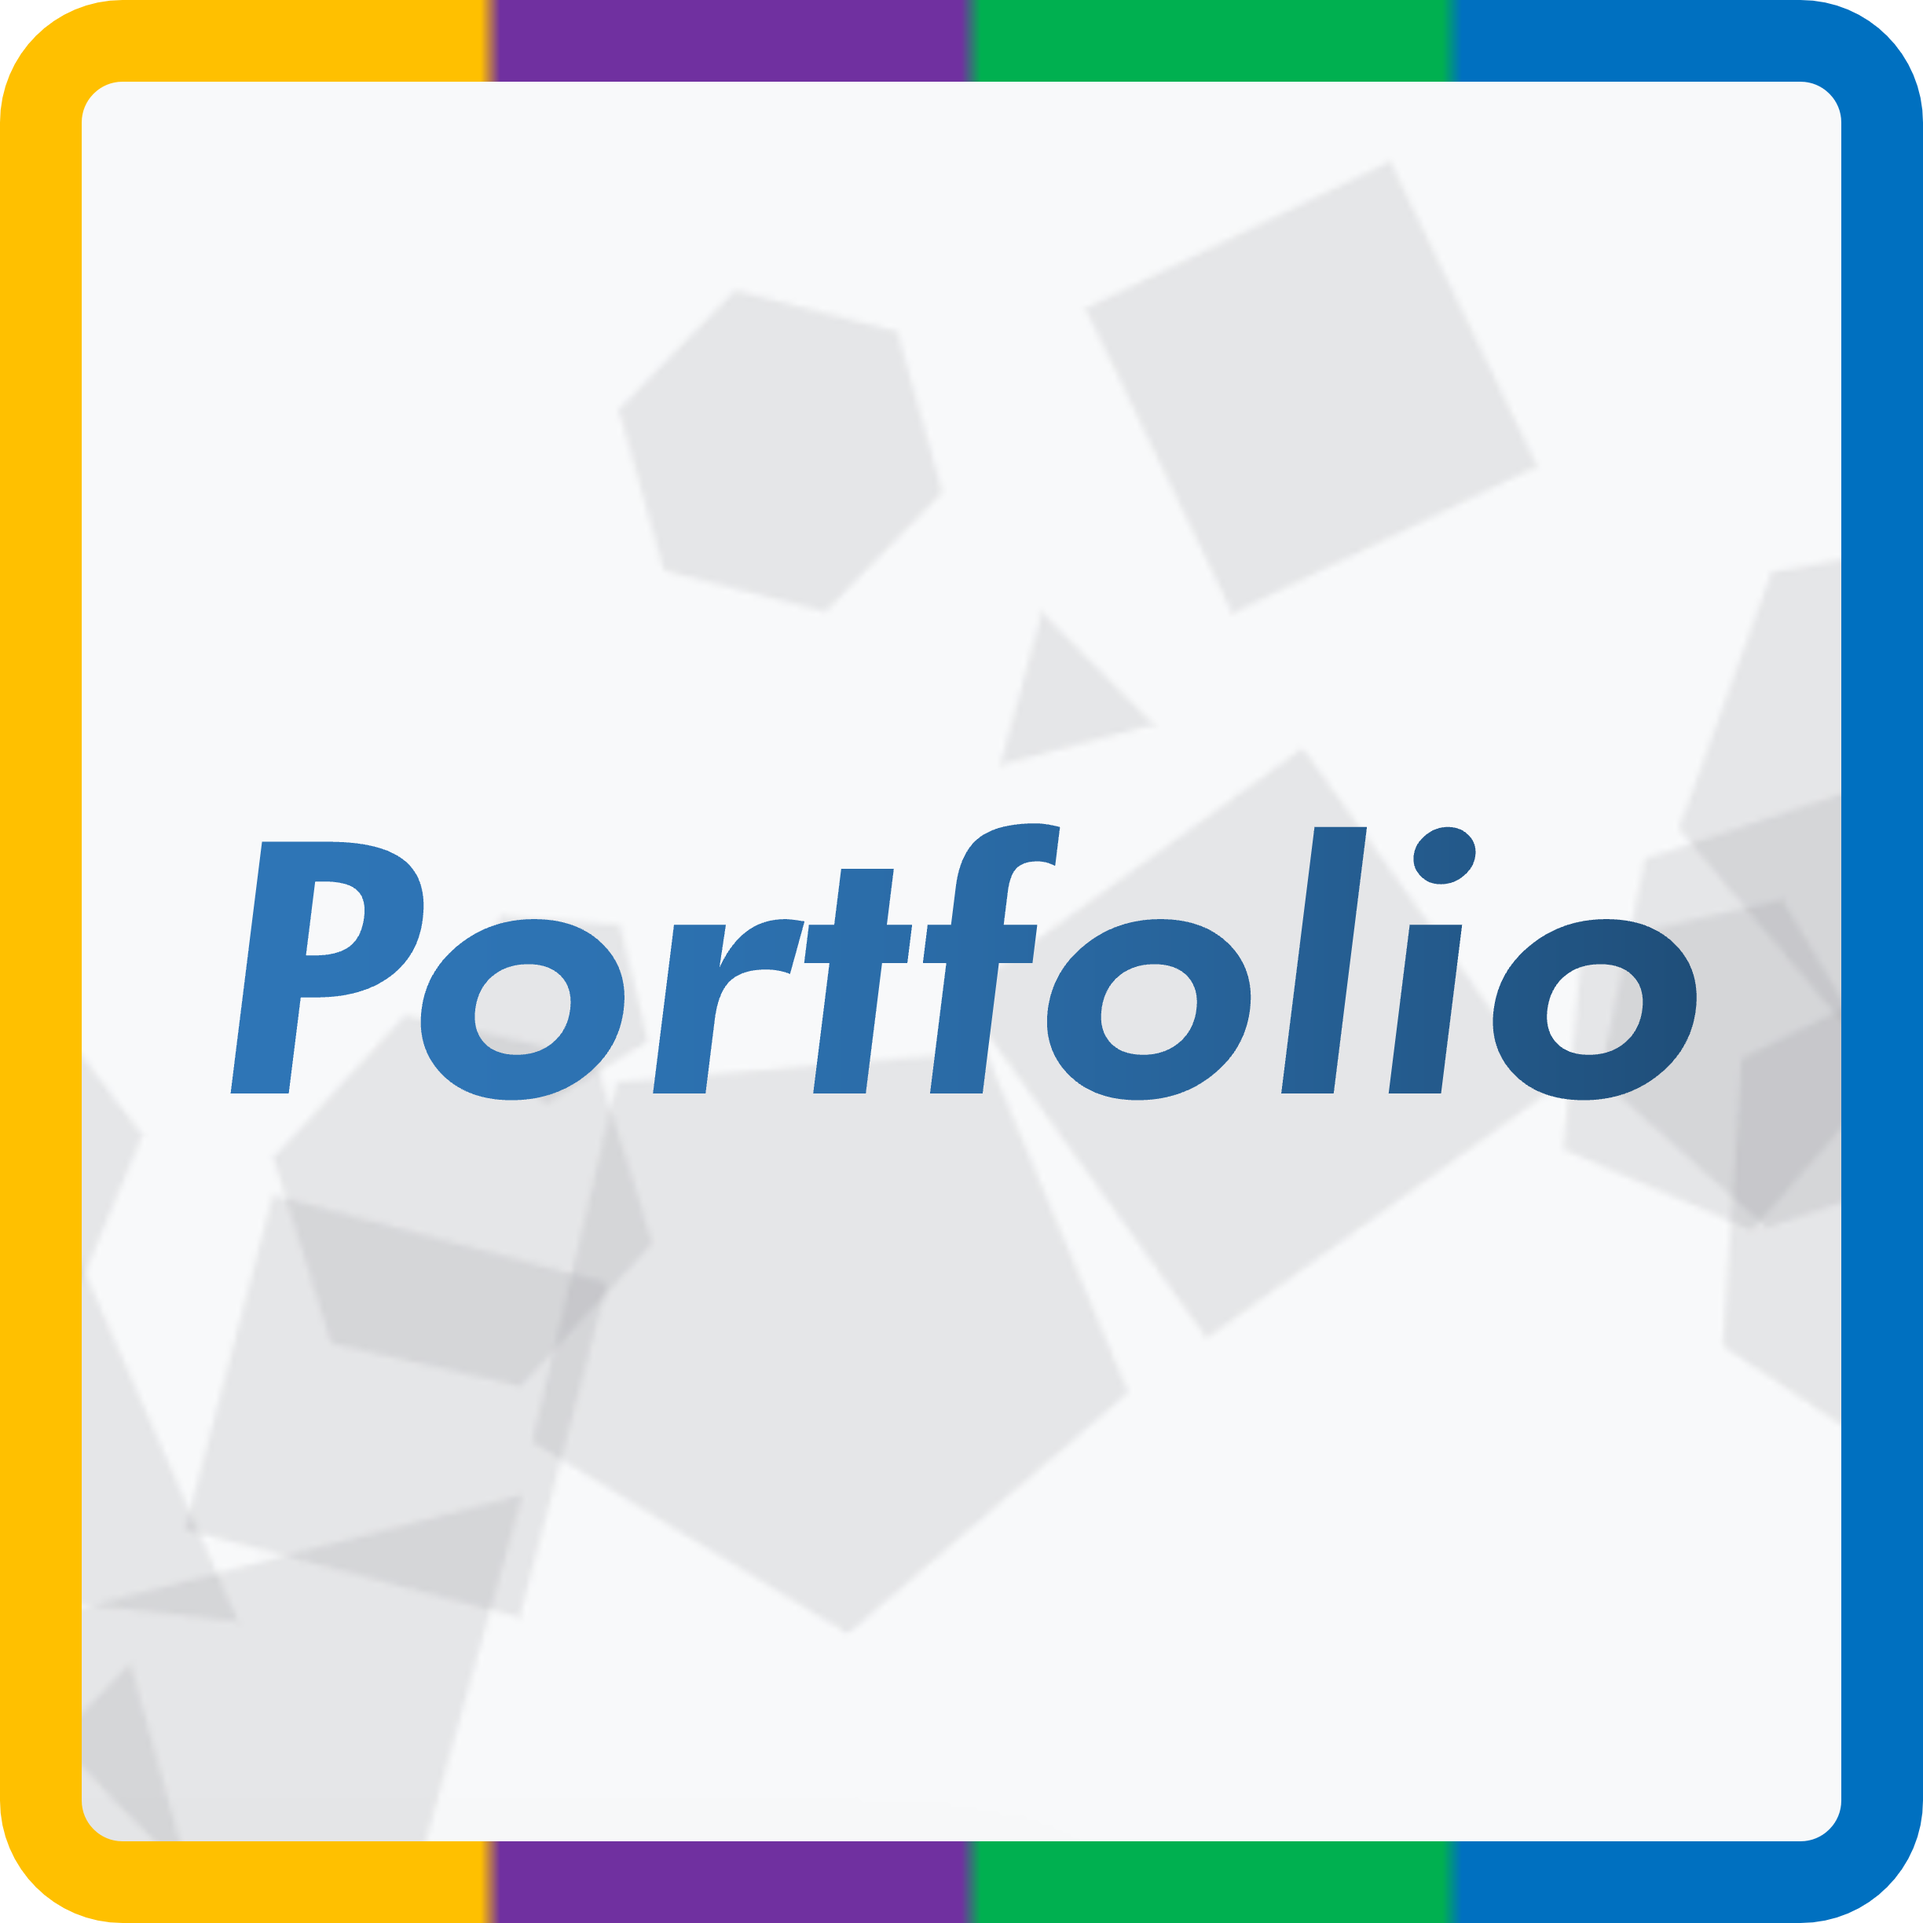
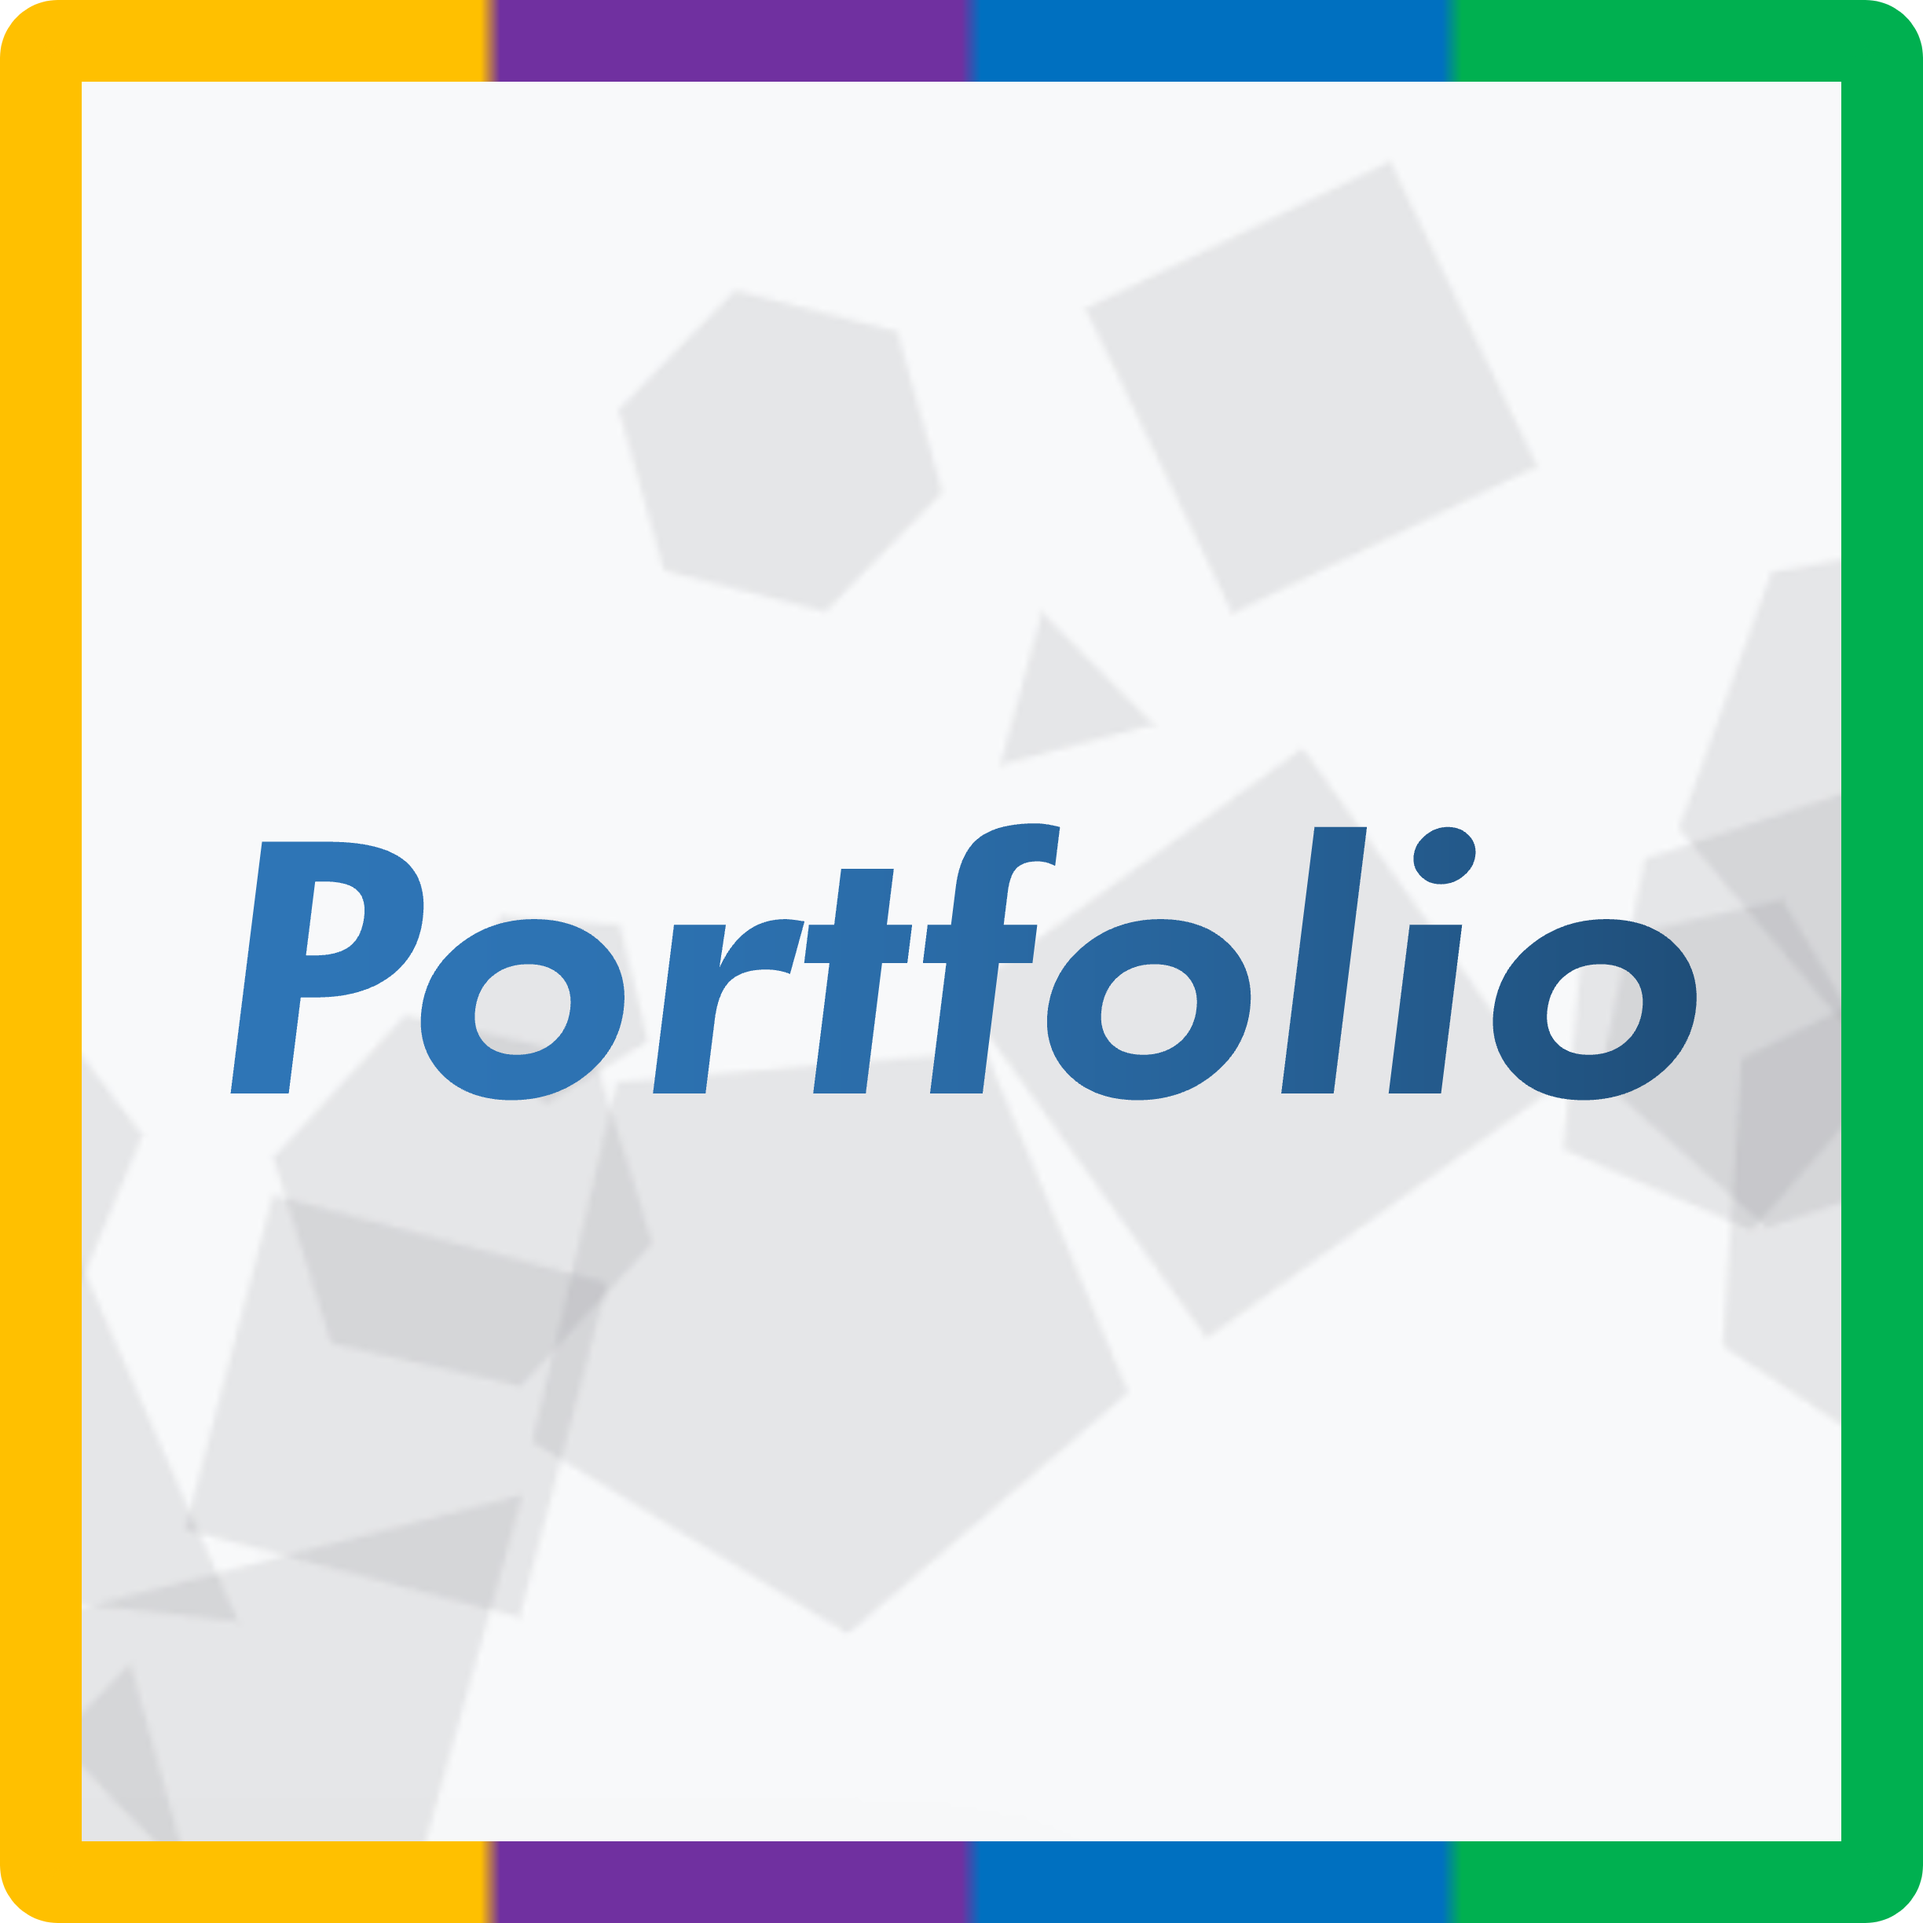
謎解き進捗のリセットボタンと確認モーダルを追加

diff --git a/script.js b/script.js
@@ -342,7 +342,12 @@ async function handleCorrectSequence(word) {
         secretWork.style.visibility = 'hidden';
         secretWork.style.position = 'absolute';
         secretWork.style.display = 'flex';
-        worksSection.appendChild(secretWork);
+        const resetContainer = document.getElementById('portfolio-reset-container');
+        if (resetContainer) {
+            worksSection.insertBefore(secretWork, resetContainer);
+        } else {
+            worksSection.appendChild(secretWork);
+        }
         const targetHeight = secretWork.offsetHeight;
         
         // アニメーションの初期状態にリセット
@@ -387,6 +392,14 @@ async function handleCorrectSequence(word) {
         
         actionArea.classList.remove('animating');
         secretWork.classList.remove('elevated-anim');
+        
+        // リセットボタンを表示
+        if (resetContainer) {
+            resetContainer.style.display = 'block';
+            resetContainer.style.opacity = '0';
+            resetContainer.style.transition = 'opacity 0.5s ease';
+            setTimeout(() => { resetContainer.style.opacity = '1'; }, 50);
+        }
         await delay(300);
         
     } else {
@@ -573,8 +586,14 @@ function restorePuzzleUIState() {
         </div>
         ${actionHTML}
     `;
-    
-    worksSection.appendChild(secretWork);
+    const resetContainer = document.getElementById('portfolio-reset-container');
+    if (resetContainer) {
+        worksSection.insertBefore(secretWork, resetContainer);
+        resetContainer.style.display = 'block';
+        resetContainer.style.opacity = '1';
+    } else {
+        worksSection.appendChild(secretWork);
+    }
 
     if (count === 3) {
         secretWork.addEventListener('click', (e) => {
@@ -593,6 +612,54 @@ function restorePuzzleUIState() {
             submitB.disabled = true;
         }
     }
+}
+
+    });
+}
+
+// リセット機能の設定
+const resetBtn = document.getElementById('portfolio-reset-btn');
+const resetModal = document.getElementById('reset-modal');
+const resetConfirm = document.getElementById('reset-confirm');
+const resetCancel = document.getElementById('reset-cancel');
+
+if (resetBtn) {
+    resetBtn.addEventListener('click', () => {
+        resetModal.classList.add('visible');
+    });
+}
+if (resetCancel) {
+    resetCancel.addEventListener('click', () => {
+        resetModal.classList.remove('visible');
+    });
+}
+if (resetConfirm) {
+    resetConfirm.addEventListener('click', () => {
+        localStorage.removeItem('portfolio_puzzle_progress');
+        solvedWords.clear();
+        
+        resetModal.classList.remove('visible');
+        
+        const secretWork = document.getElementById('portfolio-secret-work');
+        if (secretWork) secretWork.remove();
+        
+        const resetContainer = document.getElementById('portfolio-reset-container');
+        if (resetContainer) {
+            resetContainer.style.display = 'none';
+            resetContainer.style.opacity = '0';
+        }
+        
+        const inputF = document.getElementById('puzzle-input');
+        const submitB = document.getElementById('puzzle-submit');
+        if (inputF) {
+            inputF.disabled = false;
+            inputF.value = '';
+            inputF.parentElement.classList.remove('solved');
+        }
+        if (submitB) {
+            submitB.disabled = false;
+        }
+    });
 }
 
 // 初期化実行

diff --git a/style.css b/style.css
@@ -694,3 +694,88 @@ a.work-card.progress-locked:hover .work-card-action {
 .work-card.placeholder-mode > * {
     pointer-events: none;
 }
+
+/* リセットボタン関連 */
+#portfolio-reset-container {
+    text-align: right;
+    margin-top: -10px;
+}
+#portfolio-reset-btn {
+    background: #e74c3c;
+    color: white;
+    border: none;
+    padding: 6px 16px;
+    border-radius: 6px;
+    font-size: 0.85em;
+    cursor: pointer;
+    font-weight: 600;
+    box-shadow: 0 4px 12px rgba(231,76,60,0.3);
+    transition: transform 0.2s ease, box-shadow 0.2s ease, background 0.2s;
+}
+#portfolio-reset-btn:hover {
+    transform: translateY(-2px);
+    box-shadow: 0 6px 16px rgba(231,76,60,0.4);
+    background: #c0392b;
+}
+
+/* リセット確認モーダル */
+#reset-modal {
+    position: fixed;
+    top: 0; left: 0; width: 100vw; height: 100vh;
+    background: rgba(0,0,0,0.5);
+    display: flex;
+    justify-content: center;
+    align-items: center;
+    z-index: 10000;
+    opacity: 0;
+    pointer-events: none;
+    transition: opacity 0.3s;
+}
+#reset-modal.visible {
+    opacity: 1;
+    pointer-events: auto;
+}
+.reset-modal-content {
+    background: white;
+    padding: 30px;
+    border-radius: 12px;
+    text-align: center;
+    box-shadow: 0 10px 40px rgba(0,0,0,0.2);
+    transform: translateY(20px);
+    transition: transform 0.3s cubic-bezier(0.2,0.8,0.2,1);
+    color: #111;
+}
+#reset-modal.visible .reset-modal-content {
+    transform: translateY(0);
+}
+.reset-modal-actions {
+    margin-top: 25px;
+    display: flex;
+    justify-content: center;
+    gap: 15px;
+}
+.reset-modal-btn {
+    border: none;
+    padding: 10px 30px;
+    border-radius: 6px;
+    font-size: 1em;
+    cursor: pointer;
+    font-weight: 600;
+    transition: background 0.2s, transform 0.2s;
+}
+.reset-modal-btn.confirm {
+    background: #e74c3c;
+    color: white;
+}
+.reset-modal-btn.confirm:hover {
+    background: #c0392b;
+    transform: translateY(-1px);
+}
+.reset-modal-btn.cancel {
+    background: #f1f1f1;
+    color: #333;
+}
+.reset-modal-btn.cancel:hover {
+    background: #e1e1e1;
+    transform: translateY(-1px);
+}

diff --git a/index.html b/index.html
@@ -5,13 +5,13 @@
     <meta charset="UTF-8">
     <meta name="viewport" content="width=device-width, initial-scale=1.0">
     <title>山平遡羅 - Portfolio</title>
-    <link rel="stylesheet" href="style.css?v=2.4">
+    <link rel="stylesheet" href="style.css?v=2.5">
 </head>
 
 <body>
 
     <canvas id="bg-canvas"></canvas>
-    <script src="script.js?v=2.4" defer></script>
+    <script src="script.js?v=2.5" defer></script>
 
     <header>
         <h1>山平 遡羅</h1>
@@ -100,6 +100,11 @@
                 <span class="action-arrow">→</span>
             </div>
         </a>
+        
+        <!-- 謎解きによるPortfolioカード挿入箇所、およびリセットボタン -->
+        <div id="portfolio-reset-container" style="display: none; opacity: 0;">
+            <button id="portfolio-reset-btn">リセット</button>
+        </div>
     </section>
 
     <!-- 謎解き入力エリア -->
@@ -120,6 +125,18 @@
 
     <!-- 演出用要素 -->
     <div id="scroll-blocker" style="display: none; position: fixed; top: 0; left: 0; width: 100vw; height: 100vh; z-index: 9999;"></div>
+    
+    <!-- リセット確認モーダル -->
+    <div id="reset-modal">
+        <div class="reset-modal-content">
+            <p>ここまでの進捗をリセットしますか？</p>
+            <div class="reset-modal-actions">
+                <button class="reset-modal-btn confirm" id="reset-confirm">はい</button>
+                <button class="reset-modal-btn cancel" id="reset-cancel">いいえ</button>
+            </div>
+        </div>
+    </div>
+    
     <div id="dark-backdrop"></div>
     <div id="congratulations-text">Congratulations!</div>
 
